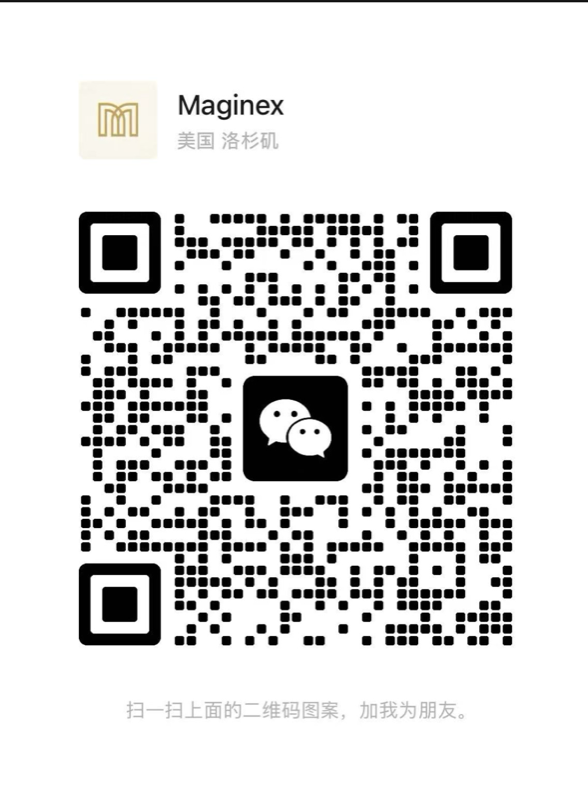
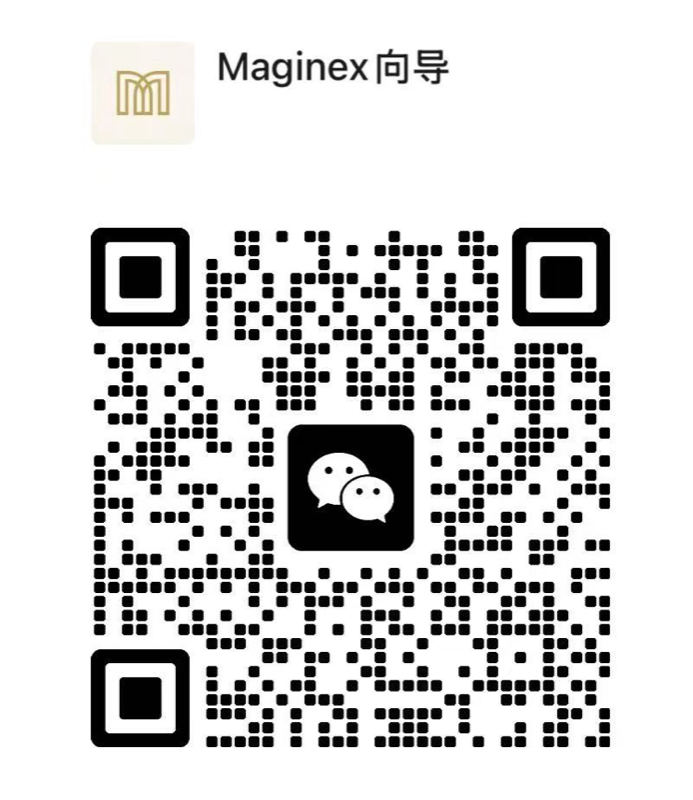
Switch to Maginex 向导 channel: livinginthepresent007s
- New QR (Maginex 向导) replaces Maginex6831 QR
- WeChat ID: Maginex6831 → livinginthepresent007s
- Article body refs: stop hardcoding ID inline; point users
  to the universal "微信咨询" CTA buttons (consistent with modal)
- WeChatCTA alt text updated to reflect new channel

diff --git a/src/data/article-content.js b/src/data/article-content.js
@@ -232,7 +232,7 @@ ${[
 
 <p>CC 转 UC 是一条<strong>有明确游戏规则的路径</strong>。你的 GPA 现在是多少不重要，重要的是你接下来 24 个月的具体动作。</p>
 
-<p>如果你想直接和我们的转学组聊聊你现在的具体情况——免费 30 分钟评估永远开放。<strong>微信扫码加 Maginex6831</strong>，写一句"想聊 CC 转 UC + 你目前 GPA 区间"，会优先安排。</p>
+<p>如果你想直接和我们的转学组聊聊你现在的具体情况——免费 30 分钟评估永远开放。<strong>页面任意"微信咨询"按钮扫码即加</strong>，写一句"想聊 CC 转 UC + 你目前 GPA 区间"，会优先安排。</p>
 
 <p style="font-size:12px;color:#999;margin-top:32px"><em>本文数据来源：UC Office of the President 2024 transfer admit data; UC Berkeley / UCLA Transfer Center 公开材料; California Community Colleges Chancellor's Office 公开报告; ASSIST.org articulation database。案例已脱敏处理 — 学生姓名、原校均已修改。</em></p>
 `,
@@ -396,7 +396,7 @@ ${[
 
 <p>RFE 是 USCIS 审查流程的一部分，不是终点。<strong>83.7%</strong> 是这个游戏的基础胜率——只要你按标准流程回应。</p>
 
-<p>如果你刚收到 RFE 不确定属于哪一类、要不要律师，<strong>免费 30 分钟评估永远开放</strong>。微信扫码加 <strong>Maginex6831</strong>，写一句"想聊 RFE + 你的申请类型（F-1/OPT/H-1B）"，会优先安排。</p>
+<p>如果你刚收到 RFE 不确定属于哪一类、要不要律师，<strong>免费 30 分钟评估永远开放</strong>。<strong>页面任意"微信咨询"按钮扫码即加</strong>，写一句"想聊 RFE + 你的申请类型（F-1/OPT/H-1B）"，会优先安排。</p>
 
 <p style="font-size:12px;color:#999;margin-top:32px"><em>本文数据来源：USCIS Office of Performance &amp; Quality FY2023 Quarterly Data; USCIS Policy Manual Volume 1 (Adjudication Standards); 8 CFR 214.2(f) (F-1 regulations); AILA Practice Pointer (RFE Response Best Practices)。案例已脱敏处理 — 学生姓名、雇主、具体专业课程编号均为示意。</em></p>
 `,

diff --git a/src/data/site.js b/src/data/site.js
@@ -5,7 +5,7 @@ export const SITE = {
   description: 'Maginex 由前 UC Berkeley 招生官与前 USCIS 签证官创办。8 年、12,000 份申请经验。不录取退全款，公对公转账。',
   url: 'https://maginext.com',
   email: 'hi@maginex.com',
-  wechat: 'Maginex6831',
+  wechat: 'livinginthepresent007s',
   whatsapp: '+1 626-949-3856',
   phone: '+1 626-949-3856',
   phones: {
